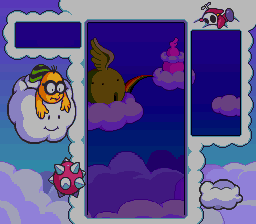
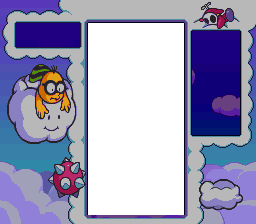
Graphique 2Joueurs + amélioration j1

diff --git a/src/Com/Vue/Jeux2j.java b/src/Com/Vue/Jeux2j.java
@@ -21,7 +21,9 @@ import Constante.ConstanteGraphique;
 import Constante.ConstanteJeux;
 import Ecran.menu.EcranMenu;
 import Gestion.Joueur;
+import JComponent.GameTimer;
 import JComponent.Grille;
+import JComponent.Score;
 import Run.Fenetre;
 
 public class Jeux2j extends JPanel implements ConstanteDimension, ConstanteJeux, ConstanteGraphique, Observer {
@@ -52,7 +54,9 @@ public class Jeux2j extends JPanel implements ConstanteDimension, ConstanteJeux,
 	private boolean pause=false;
 	
 	protected int idJ1, idJ2;
-	
+	protected Score scoreJ1,lvlJ1;
+	protected Score scoreJ2,lvlJ2;
+	protected GameTimer timer;
 	
 	//fond
 	protected Image fondYoshi= new ImageIcon("./ressources/Game/Fond2J/fond2.png").getImage();
@@ -67,11 +71,16 @@ public class Jeux2j extends JPanel implements ConstanteDimension, ConstanteJeux,
 	//fond
 	protected Image yoshi= new ImageIcon("./ressources/Game/Fond2J/yoshi.png").getImage();
 	protected Image frog= new ImageIcon("./ressources/Game/Fond2J/frog.png").getImage();
-	protected Image chien= new ImageIcon("./ressources/Game/Fond2J/chien.png").getImage();
+	protected Image chien= new ImageIcon("./ressources/Game/Fond2J/dog.png").getImage();
 	protected Image lakitu= new ImageIcon("./ressources/Game/Fond2J/lakitu.png").getImage();
-	protected Image maskass= new ImageIcon("./ressources/Game/Fond2J/maskass.png").getImage();
+	protected Image maskass= new ImageIcon("./ressources/Game/Fond2J/penguin.png").getImage();
 	protected Image monstre= new ImageIcon("./ressources/Game/Fond2J/monstre.png").getImage();
 	protected Image fondGrille[] = {yoshi,lakitu,chien,monstre,frog,maskass};
+	
+	//interface
+	protected Image interf= new ImageIcon("./ressources/Game/Interface/interface.png").getImage();
+	
+	
 	
 	
 	public Jeux2j(Fenetre f, int[] option, int idJ1, int idJ2) {  //Option =  0 -> vitesse J1 1->idtheme j1 2 -> vitesse J2 3 -> idtheme j2
@@ -109,6 +118,22 @@ public class Jeux2j extends JPanel implements ConstanteDimension, ConstanteJeux,
 		g1.init();
 		g2.init();
 		creerlayout();
+		
+		
+		this.lvlJ1=new Score(this,385,125,false,1);
+		this.lvlJ2=new Score(this,435,125,true,1);
+		this.scoreJ1=new Score(this,385,320,false,4);
+		this.scoreJ2=new Score(this,385,405,true,4);
+		this.timer=new GameTimer(this,380,485);
+		
+		
+		
+		scoreJ1.setScore(1234);
+		scoreJ2.setScore(12);
+		
+		
+		
+		
 	}
 
 	public void GestionClavier(KeyEvent e) {
@@ -187,15 +212,11 @@ public class Jeux2j extends JPanel implements ConstanteDimension, ConstanteJeux,
 		this.validate();
 
 		g.drawImage(fond[this.idJ1], 0, 0, getWidth(), getHeight(), this);
-		g.drawImage(fondGrille[this.idJ1], 100, 100, 96, 192, this);
-		g.drawImage(fondGrille[this.idJ2], 400, 100, 96, 192, this);
+		g.drawImage(fondGrille[this.idJ1], ConstanteJeux.PositionGrille2JX1, ConstanteJeux.PositionGrille2JY1, 
+				ConstanteDimension.DimensionGrillex, ConstanteDimension.DimensionGrilley, this);
+		g.drawImage(fondGrille[this.idJ2], ConstanteJeux.PositionGrille2JX2, ConstanteJeux.PositionGrille2JY2, 
+				ConstanteDimension.DimensionGrillex, ConstanteDimension.DimensionGrilley, this);
 		
-		/*
-		if (this.drawOnce) {
-			Color c = Color.black;
-			g.fillRect(0, 0, ConstanteDimension.DimensionFenetrex, ConstanteDimension.DimensionFenetrey);
-			// drawOnce=false;
-		}*/
 
 		(this.g1).paintComponent(g);
 		// (this.g1).dessinerGrille(g);
@@ -203,6 +224,16 @@ public class Jeux2j extends JPanel implements ConstanteDimension, ConstanteJeux,
 		(this.g2).paintComponent(g);
 		// (this.g2).dessinerGrille(g);
 		(this.j2).dessinerJoueur(g);
+		g.drawImage(this.interf, ConstanteJeux.PositionGrille2JX1-5, ConstanteJeux.PositionGrille2JY1-10, 
+				ConstanteDimension.DimensionFenetrex-ConstanteJeux.PositionGrille2JX1*2+15,
+				ConstanteDimension.DimensionFenetrey-ConstanteJeux.PositionGrille2JY1+15, this);
+		(this.timer).draw(g);
+		(this.scoreJ1).draw(g);
+		(this.lvlJ1).draw(g);
+		(this.scoreJ2).draw(g);
+		(this.lvlJ2).draw(g);
+		
+		
 	}
 
 	@Override
@@ -262,6 +293,7 @@ public class Jeux2j extends JPanel implements ConstanteDimension, ConstanteJeux,
 	@Override
 	public void updateTimer(String minute, String seconde) {
 		//System.out.println("Temps: "+ minute+" : "+seconde);
+		timer.setTime(minute, seconde);
 	}
 
 	@Override

diff --git a/src/Com/Vue/Jeux1j.java b/src/Com/Vue/Jeux1j.java
@@ -53,13 +53,23 @@ public class Jeux1j extends JPanel implements ConstanteDimension, ConstanteJeux,
 	private boolean pause=false;
 	
 	//fond
-	protected Image yoshi= new ImageIcon("./ressources/Game/Fond1J/yoshi.png").getImage();
-	protected Image frog= new ImageIcon("./ressources/Game/Fond1J/frog.png").getImage();
-	protected Image chien= new ImageIcon("./ressources/Game/Fond1J/chien.png").getImage();
-	protected Image lakitu= new ImageIcon("./ressources/Game/Fond1J/lakitu.png").getImage();
-	protected Image maskass= new ImageIcon("./ressources/Game/Fond1J/maskass.png").getImage();
-	protected Image monstre= new ImageIcon("./ressources/Game/Fond1J/monstre.png").getImage();
+	protected Image yoshi= new ImageIcon("./ressources/Game/Fond1J/fondYoshi.png").getImage();
+	protected Image frog= new ImageIcon("./ressources/Game/Fond1J/fondFrog.png").getImage();
+	protected Image chien= new ImageIcon("./ressources/Game/Fond1J/fondChien.png").getImage();
+	protected Image lakitu= new ImageIcon("./ressources/Game/Fond1J/fondLakitu.png").getImage();
+	protected Image maskass= new ImageIcon("./ressources/Game/Fond1J/fondMaskass.png").getImage();
+	protected Image monstre= new ImageIcon("./ressources/Game/Fond1J/fondMonstre.png").getImage();
 	protected Image fond[] = {yoshi,lakitu,chien,monstre,frog,maskass};
+	
+	protected Image yoshiFond= new ImageIcon("./ressources/Game/Fond1J/yoshi.png").getImage();
+	protected Image frogFond= new ImageIcon("./ressources/Game/Fond1J/frog.png").getImage();
+	protected Image chienFond= new ImageIcon("./ressources/Game/Fond1J/chien.png").getImage();
+	protected Image lakituFond= new ImageIcon("./ressources/Game/Fond1J/lakitu.png").getImage();
+	protected Image maskassFond= new ImageIcon("./ressources/Game/Fond1J/maskass.png").getImage();
+	protected Image monstreFond= new ImageIcon("./ressources/Game/Fond1J/monstre.png").getImage();
+	protected Image fond2[] = {yoshiFond,lakituFond,chienFond,monstreFond,frogFond,maskassFond};
+	
+	
 	
 	//Time
 	protected Image time= new ImageIcon("./ressources/Game/Texte/time.png").getImage();
@@ -109,7 +119,7 @@ public class Jeux1j extends JPanel implements ConstanteDimension, ConstanteJeux,
 		
 		
 		highScore.setScore(20000);
-		score.setScore(1234);
+		//score.setScore(1234);
 		speedLvl.setScore(12);
 		
 		
@@ -173,10 +183,14 @@ public class Jeux1j extends JPanel implements ConstanteDimension, ConstanteJeux,
 
 		
 		
-		g.drawImage(fond[EcranMenu.getOption()[1]], 0, 0, getWidth(), getHeight(), this);
 		
 		
+		g.drawImage(fond[EcranMenu.getOption()[1]], this.g.getPosGx(), this.g.getPosGy()-5, this.g.getTaillenx()*nombredecase,this.g.getTailleny()*(nombredeLigne-2)+50, this);
 		(this.g).paintComponent(g);
+		g.drawImage(fond2[EcranMenu.getOption()[1]], 0, 0, getWidth(), getHeight(), this);
+		
+		
+		
 		(this.j).dessinerJoueur(g);
 		
 		g.drawImage(this.time, this.timeX, this.timeY, this.widthTime, this.heightTime, this);
@@ -221,7 +235,9 @@ public class Jeux1j extends JPanel implements ConstanteDimension, ConstanteJeux,
 
 	@Override
 	public void score(int id, int score) {
+		System.out.println("score");
 		this.j.setScore(score);
+		this.score.setScore(score);
 	}
 
 	@Override

diff --git a/src/Com/Model/GrilleModel.java b/src/Com/Model/GrilleModel.java
@@ -76,7 +76,7 @@ public class GrilleModel implements ConstanteJeux, ConstanteDimension {
 				this.UpdateCase(i, a, tab[a][i].v);
 			}
 		}
-		joueurVue.reinitgrilleAnimation(id);
+		getJoueurVue().reinitgrilleAnimation(id);
 	}
 
 	/**
@@ -144,7 +144,7 @@ public class GrilleModel implements ConstanteJeux, ConstanteDimension {
 				}
 			}
 		}
-		joueurVue.score(id,score);
+		
 		return changement;
 	}
 	
@@ -182,7 +182,7 @@ public class GrilleModel implements ConstanteJeux, ConstanteDimension {
 				}
 			}
 		}
-		joueurVue.score(id, score);
+		getJoueurVue().score(id, score);
 		return changement;
 	}
 
@@ -234,28 +234,28 @@ public class GrilleModel implements ConstanteJeux, ConstanteDimension {
 	
 
 	public void UpdateCase(int y, int x, ValeurCase tab2) {
-		joueurVue.updateCase(id, y, x, tab2);
+		getJoueurVue().updateCase(id, y, x, tab2);
 	}
 
 	public void UpdateSwapHorizontal(int x1, int x2, int y) {
-		joueurVue.swaphorizontal(id, x1, x2, y);
+		getJoueurVue().swaphorizontal(id, x1, x2, y);
 	}
 
 	public void UpdateSwapVertical(int x, int y1, int y2) {
-		joueurVue.swapvertical(id, x, y1, y2);
+		getJoueurVue().swapvertical(id, x, y1, y2);
 	}
 
 	public void updateStopCase(int y, int x){
-		joueurVue.stopCase(id ,y, x);
+		getJoueurVue().stopCase(id ,y, x);
 	}
 	
 	public void updateStartCase(int y, int x){
-		joueurVue.startCase(id, y, x);
+		getJoueurVue().startCase(id, y, x);
 	}
 	
 	
 	public void add(Observer joueurVue) {
-		this.joueurVue = joueurVue;
+		this.setJoueurVue(joueurVue);
 	}
 
 	public void swap(int x1, int x2, int y1) {
@@ -282,7 +282,7 @@ public class GrilleModel implements ConstanteJeux, ConstanteDimension {
 	}
 
 	public void monteGrilleGraphique() {
-		joueurVue.bougerGrilleGraphique(id);
+		getJoueurVue().bougerGrilleGraphique(id);
 	}
 	
 	public void afficherGrille(){
@@ -302,6 +302,14 @@ public class GrilleModel implements ConstanteJeux, ConstanteDimension {
 
 	public void setControlerJoueur(JoueurControler controlerJoueur) {
 		this.controlerJoueur = controlerJoueur;
+	}
+
+	public Observer getJoueurVue() {
+		return joueurVue;
+	}
+
+	public void setJoueurVue(Observer joueurVue) {
+		this.joueurVue = joueurVue;
 	}
 	
 }

diff --git a/src/JComponent/Grille.java b/src/JComponent/Grille.java
@@ -60,8 +60,8 @@ public class Grille extends JPanel implements ConstanteDimension, ConstanteGraph
 		
 		for(int i=0; i<nombredecase; i++){
 			for(int j=0; j<nombredeLigne; j++){
-				getTab()[i][j]= new Case(this, x * taillenx, y * tailleny, taillenx, tailleny, ValeurCase.VIDE);
-				getTab()[i][j].getAnimBloc().addInfosGrille(i, j, posGx, posGy, taillenx, tailleny);
+				getTab()[i][j]= new Case(this, x * taillenx, (y+1) * tailleny, taillenx, tailleny, ValeurCase.VIDE);
+				getTab()[i][j].getAnimBloc().addInfosGrille(i, (j+1), posGx, posGy, taillenx, tailleny);
 				animThread.getAnimations().add(getTab()[i][j].getAnimBloc());
 			}
 				
@@ -104,6 +104,46 @@ public class Grille extends JPanel implements ConstanteDimension, ConstanteGraph
 		}
 	}
 	
+	public int getPosGx() {
+		return posGx;
+	}
+
+
+	public void setPosGx(int posGx) {
+		this.posGx = posGx;
+	}
+
+
+	public int getPosGy() {
+		return posGy;
+	}
+
+
+	public void setPosGy(int posGy) {
+		this.posGy = posGy;
+	}
+
+
+	public int getTailleny() {
+		return tailleny;
+	}
+
+
+	public void setTailleny(int tailleny) {
+		this.tailleny = tailleny;
+	}
+
+
+	public int getTaillenx() {
+		return taillenx;
+	}
+
+
+	public void setTaillenx(int taillenx) {
+		this.taillenx = taillenx;
+	}
+
+
 	public void paintComponent(Graphics g){
 		for (int a = 0; a < nombredeLigne; a++) {
 			for (int i = 0; i < nombredecase; i++) {
@@ -111,7 +151,7 @@ public class Grille extends JPanel implements ConstanteDimension, ConstanteGraph
 			}
 		}
 		g.setColor(new Color(0,0,255,110));
-		g.fillRect(this.posGx,nombredeLigne*tailleny, DimensionGrillex , tailleny);
+		g.fillRect(this.posGx,(nombredeLigne+1)*tailleny, DimensionGrillex , tailleny);
 	}	
 
 	public int tailleX() {

diff --git a/src/Gestion/Joueur.java b/src/Gestion/Joueur.java
@@ -43,7 +43,7 @@ public class Joueur implements ConstanteJeux {
 
 		this.x1Grille = posXG + x1 * sizex;
 		this.x2Grille = posXG + x2 * sizex;
-		this.yGrille = posYG + y1 * sizey;
+		this.yGrille = posYG + (y1+1) * sizey;
 
 		this.sizex = sizex;
 		this.sizey = sizey;
@@ -114,7 +114,7 @@ public class Joueur implements ConstanteJeux {
 	}
 
 	public void reinitgrilleEmplacement() {
-		this.yGrille =  posYG + y1*sizey;
+		this.yGrille =  posYG + (y1+1)*sizey;
 		
 	}
 	

diff --git a/src/Constante/ConstanteJeux.java b/src/Constante/ConstanteJeux.java
@@ -13,10 +13,10 @@ public interface ConstanteJeux {
 	public int PositionGrille1JX=278;
 	public int PositionGrille1JY=69;
 	
-	public int PositionGrille2JX1=70;
+	public int PositionGrille2JX1=25;
 	public int PositionGrille2JY1=69;
 	
-	public int PositionGrille2JX2=500;
+	public int PositionGrille2JX2=475;
 	public int PositionGrille2JY2=69;
 
 	public int scorepoint=100;

diff --git a/src/Com/Model/CaseThreadSuppr.java b/src/Com/Model/CaseThreadSuppr.java
@@ -59,6 +59,9 @@ public class CaseThreadSuppr extends Thread{
 			
 			m.descendreCube();
 			
+			m.score+=casesSuppr.size()*10;
+			m.getJoueurVue().score(id,m.score);
+			
 			//this.m.listeThreadSuppr.remove(this);
 			//this.m.controlerJoueur.activerAjoutLigne();
 			
